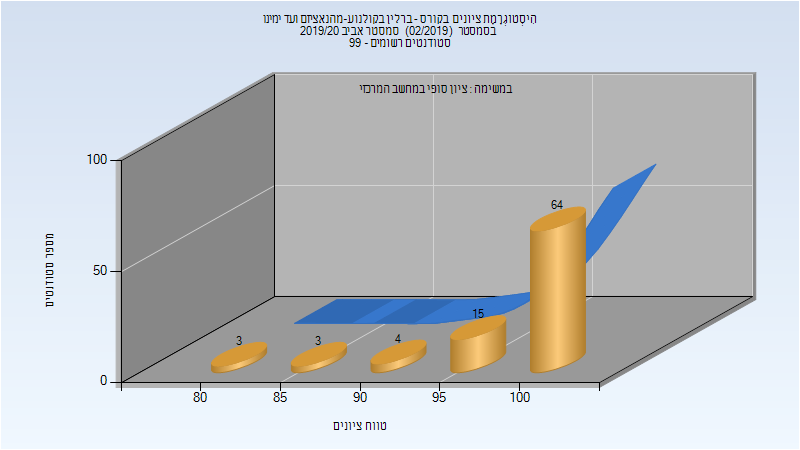
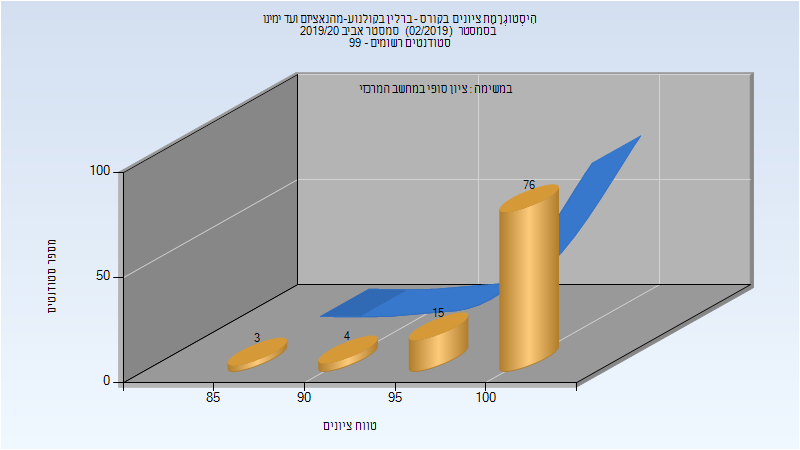
Deploy michael-maltsev/technion-histograms to github.com/michael-maltsev/technion-histograms.git:gh-pages

diff --git a/324260/index.html b/324260/index.html
@@ -78,6 +78,32 @@
 </tr>
 </tbody>
 </table>
+<h3>סופי מועד ב'</h3>
+<p><img src="201902/Final_B.png" alt="201902 Final_B" /></p>
+<table>
+<thead>
+<tr>
+<th>סטודנטים</th>
+<th>עברו/נכשלו</th>
+<th>אחוז עוברים</th>
+<th>ציון מינימלי</th>
+<th>ציון מקסימלי</th>
+<th>ממוצע</th>
+<th>חציון</th>
+</tr>
+</thead>
+<tbody>
+<tr>
+<td>16</td>
+<td>16/0</td>
+<td>100</td>
+<td>90</td>
+<td>100</td>
+<td>97.312</td>
+<td>98.5</td>
+</tr>
+</tbody>
+</table>
 <h3>סופי</h3>
 <p><img src="201902/Finals.png" alt="201902 Finals" /></p>
 <table>
@@ -94,12 +120,12 @@
 </thead>
 <tbody>
 <tr>
-<td>74</td>
-<td>73/1</td>
+<td>84</td>
+<td>83/1</td>
 <td>99</td>
 <td>53</td>
 <td>100</td>
-<td>93.108</td>
+<td>95.048</td>
 <td>97</td>
 </tr>
 </tbody>

diff --git a/324462/index.html b/324462/index.html
@@ -296,12 +296,12 @@
 </thead>
 <tbody>
 <tr>
-<td>89</td>
-<td>89/0</td>
+<td>98</td>
+<td>98/0</td>
 <td>100</td>
-<td>80</td>
+<td>88</td>
 <td>100</td>
-<td>97.933</td>
+<td>98.694</td>
 <td>100</td>
 </tr>
 </tbody>

diff --git a/054416/index.html b/054416/index.html
@@ -264,12 +264,12 @@
 </thead>
 <tbody>
 <tr>
-<td>53</td>
-<td>49/4</td>
-<td>92</td>
+<td>54</td>
+<td>50/4</td>
+<td>93</td>
 <td>38</td>
 <td>99</td>
-<td>77.83</td>
+<td>77.5</td>
 <td>79</td>
 </tr>
 </tbody>

diff --git a/324260/README.md b/324260/README.md
@@ -18,11 +18,19 @@
 | ---- | ---- | ---- | ---- | ---- | ---- | ---- |
 | 74 | 73/1 | 99 | 53.333 | 100 | 93.104 | 96.667 |
 
+### סופי מועד ב'
+
+![201902 Final_B](201902/Final_B.png)
+
+| סטודנטים | עברו/נכשלו | אחוז עוברים | ציון מינימלי | ציון מקסימלי | ממוצע | חציון |
+| ---- | ---- | ---- | ---- | ---- | ---- | ---- |
+| 16 | 16/0 | 100 | 90 | 100 | 97.312 | 98.5 |
+
 ### סופי
 
 ![201902 Finals](201902/Finals.png)
 
 | סטודנטים | עברו/נכשלו | אחוז עוברים | ציון מינימלי | ציון מקסימלי | ממוצע | חציון |
 | ---- | ---- | ---- | ---- | ---- | ---- | ---- |
-| 74 | 73/1 | 99 | 53 | 100 | 93.108 | 97 |
+| 84 | 83/1 | 99 | 53 | 100 | 95.048 | 97 |
 

diff --git a/324462/README.md b/324462/README.md
@@ -88,5 +88,5 @@
 
 | סטודנטים | עברו/נכשלו | אחוז עוברים | ציון מינימלי | ציון מקסימלי | ממוצע | חציון |
 | ---- | ---- | ---- | ---- | ---- | ---- | ---- |
-| 89 | 89/0 | 100 | 80 | 100 | 97.933 | 100 |
+| 98 | 98/0 | 100 | 88 | 100 | 98.694 | 100 |
 

diff --git a/054416/README.md b/054416/README.md
@@ -80,5 +80,5 @@
 
 | סטודנטים | עברו/נכשלו | אחוז עוברים | ציון מינימלי | ציון מקסימלי | ממוצע | חציון |
 | ---- | ---- | ---- | ---- | ---- | ---- | ---- |
-| 53 | 49/4 | 92 | 38 | 99 | 77.83 | 79 |
+| 54 | 50/4 | 93 | 38 | 99 | 77.5 | 79 |
 
